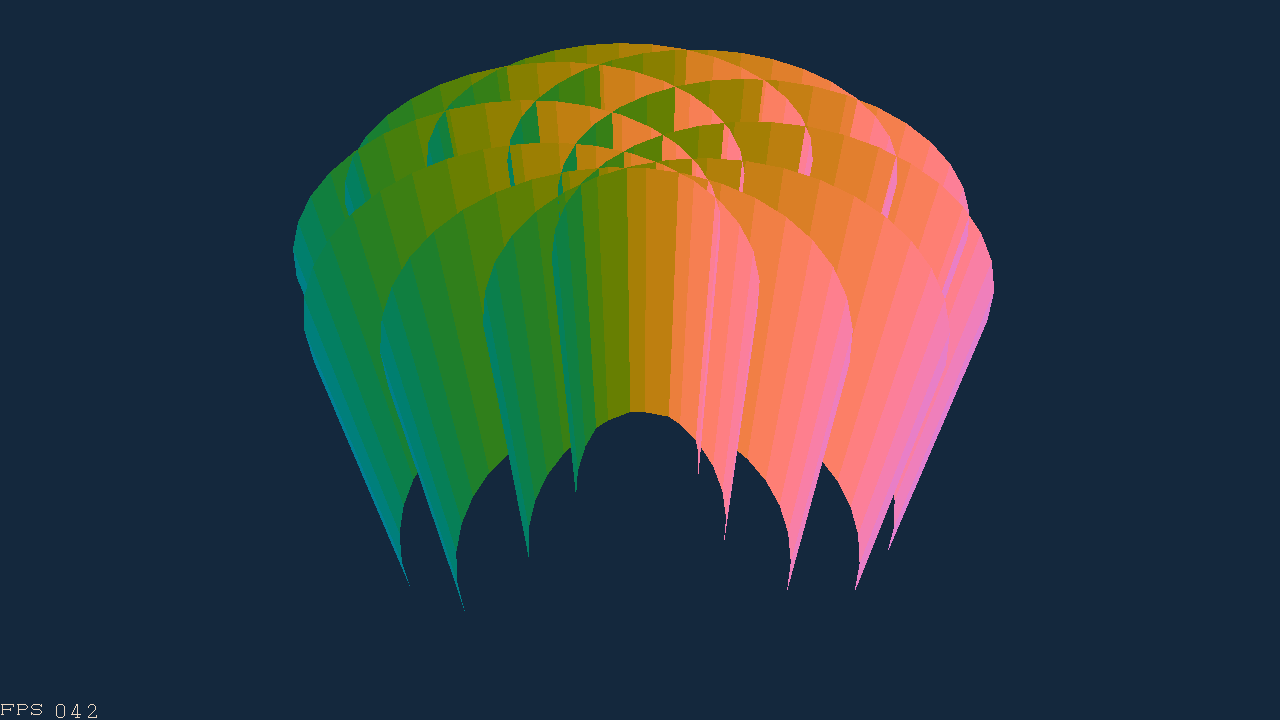
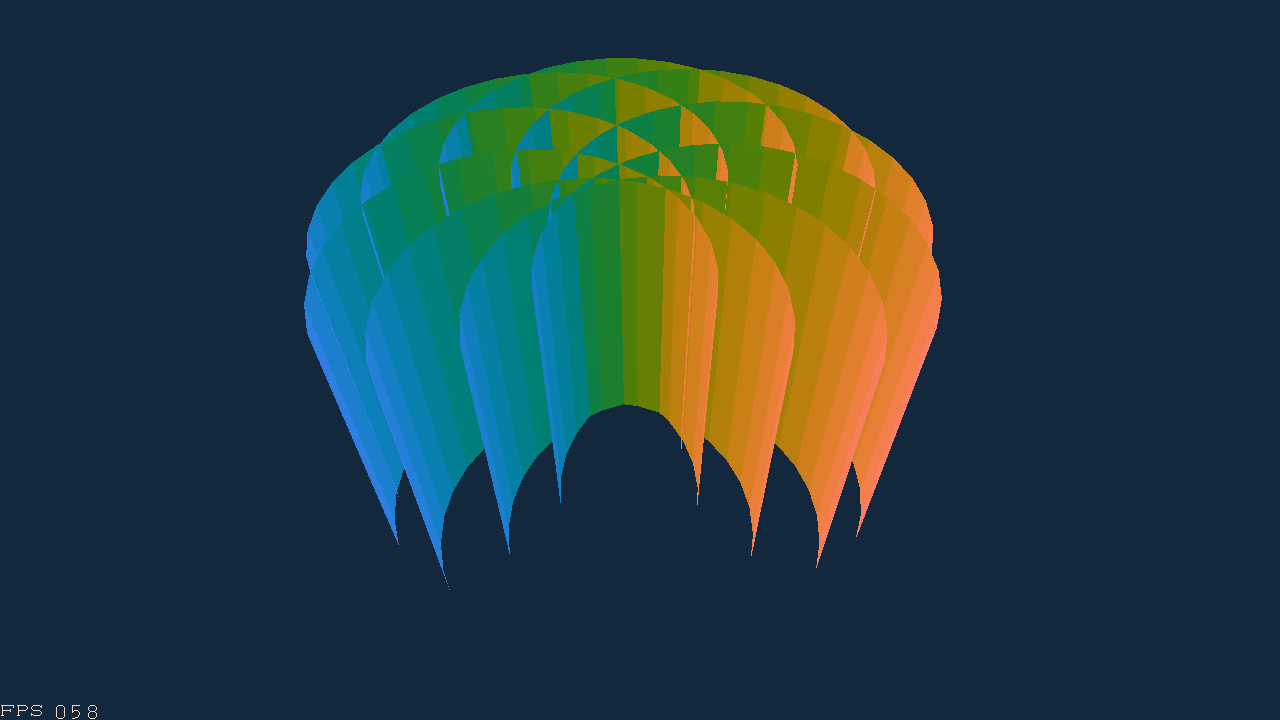
more results, update some result in README

Changed region(s): [[0.2188, 0.0611, 0.7812, 0.7944], [0.0, 0.9778, 0.0625, 1.0]]

diff --git a/README.md b/README.md
@@ -14,11 +14,11 @@ The details will be listed...
 
 * face culling
 
-![cull_cube_front_back](result/image/face_culling/cull_cube_front_back.png)
+![cull_cube_front_back](result/image/face_culling/cull_flower_front_back.png)
 
-![cull_cube_front](result/image/face_culling/cull_cube_front.png)
+![cull_cube_front](result/image/face_culling/cull_flower_front.png)
 
-![cull_cube_back](result/image/face_culling/cull_cube_back.png)
+![cull_cube_back](result/image/face_culling/cull_flower_back.png)
 
 * Gamma correction
 
